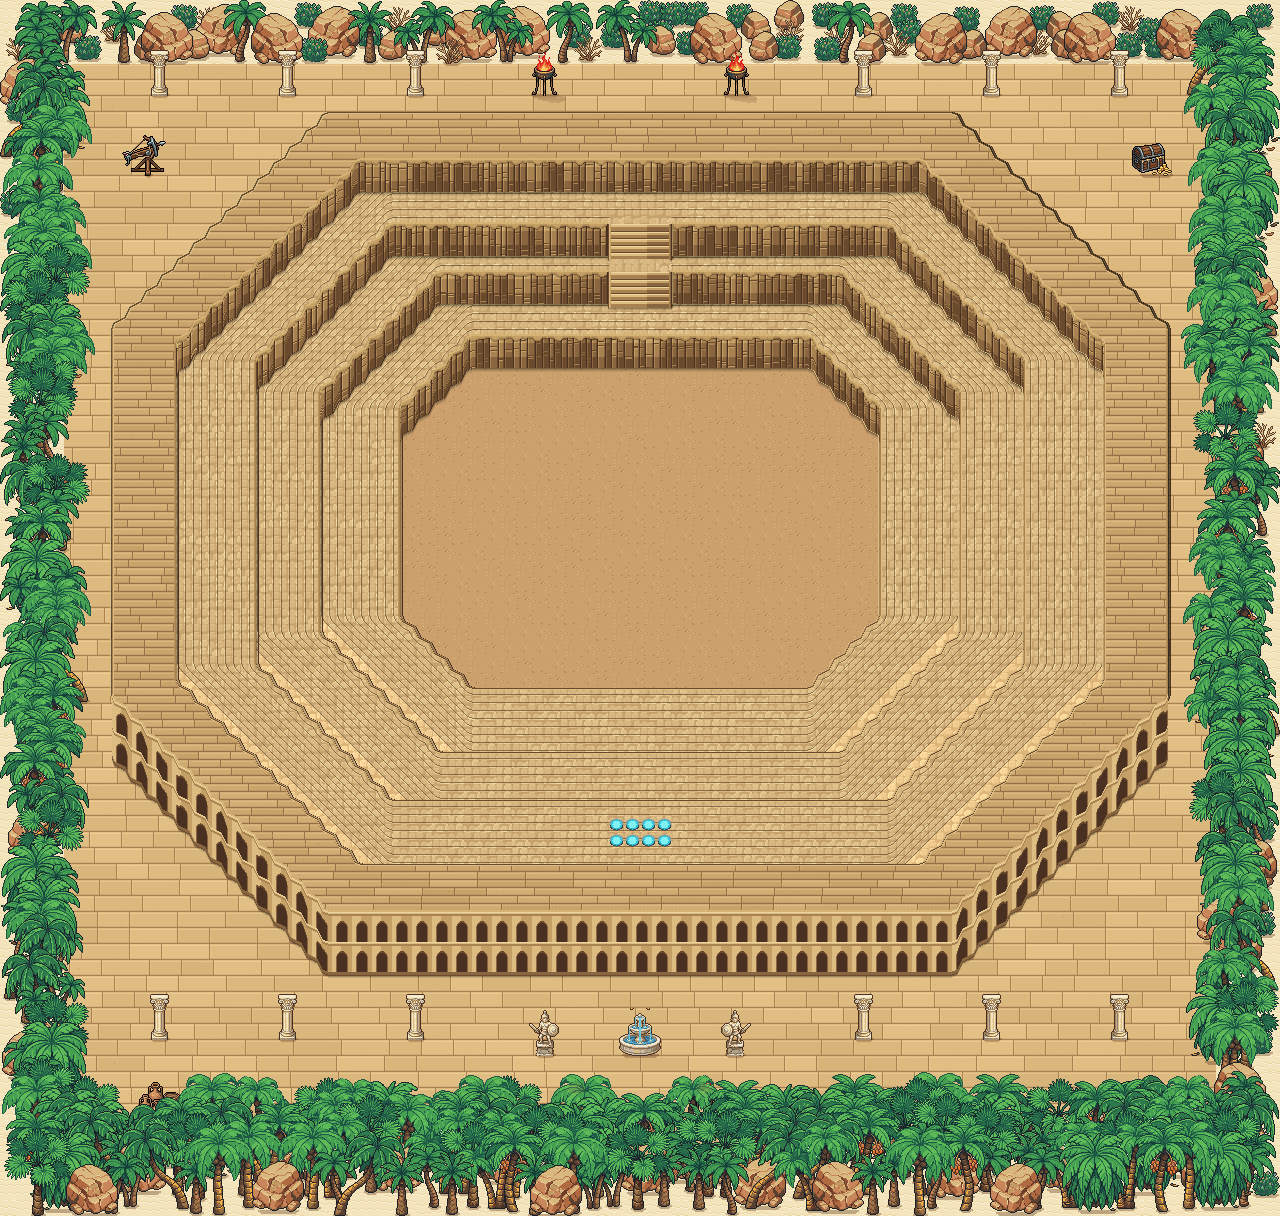
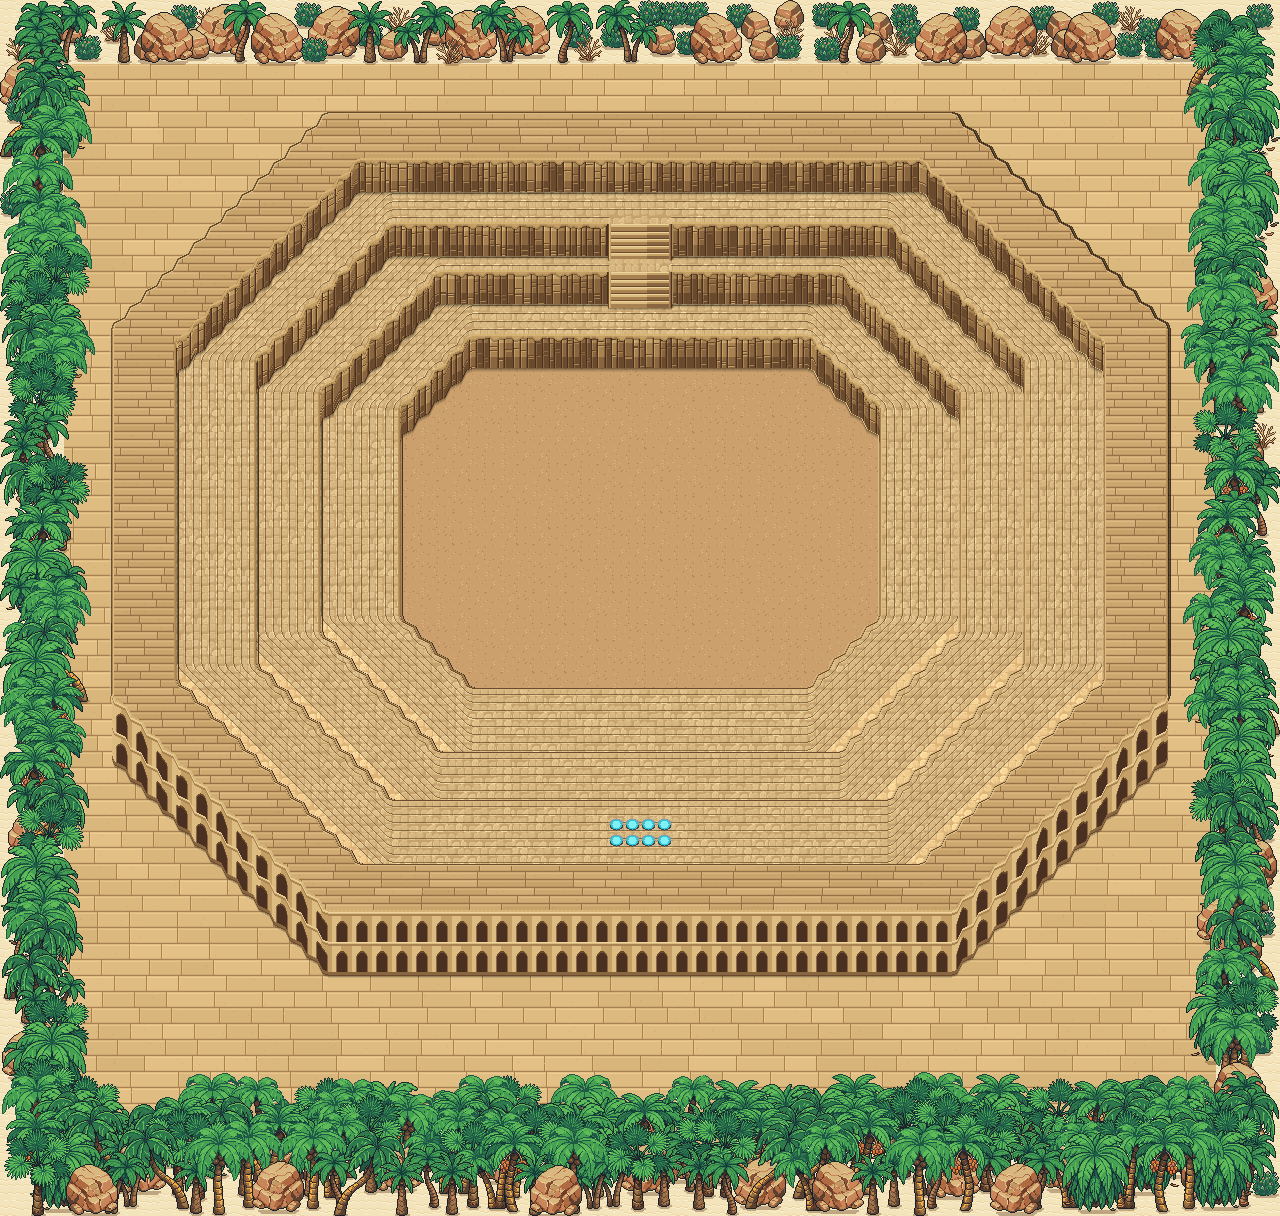
Karte 67: Objekte auf dem Platz entfernt (nur Palmenguertel)
Claude-Session: https://claude.ai/code/session_01SaoYHKhnro4LFcPJqjaPsq

diff --git a/tools/karte67_objekte.py b/tools/karte67_objekte.py
@@ -6,8 +6,7 @@
 Neu mit PixelLab (k67_rom): Travertinsaeule, Bronze-Feuerschale, Legionsstandarte, Gladiatorenstatue, Waffenstaender,
 Amphoren mit Fass, Kaiserthron, Speisetisch, Brunnen. Baeume des Guertels aus Karte 01 (Laubbaeume, Zypressen, Kiefern,
 Buesche zum Schliessen der Luecken).
-Aufbau (Nutzer): Arena und Tribuene innen ohne Objekte; aussen (Kulisse) Nordplatz mit Saeulen, Suedplatz mit Brunnen
-auf der Achse, Statuen- und Saeulenpaaren, wenige Marktdinge abseits.
+Aufbau (Nutzer): keine Objekte in Arena, Tribuene und auf dem Platz - nur der Palmenguertel am Rand.
 """
 import json, os, random, sys
 sys.path.insert(0, os.path.dirname(os.path.abspath(__file__)))
@@ -140,21 +139,7 @@ def main():
         return False
 
     # Nutzer: innen (Arena und Tribuene) keine Objekte - Kampfarena abgeschottet, Tribuene frei begehbar
-    # ---------------- Aussen (Kulisse): Nordplatz mit Saeulenreihe, Suedplatz mit Brunnen
-    for ab in (14, 22, 30):
-        paar('saeule', ab * T, 5 * T, klassen='z')
-    paar('schale', 6 * T, 5 * T, FL, klassen='z')
-    if not setze('brunnen', achse, 65 * T, {'anim': 'brunnen'}):
-        print('  Brunnen nicht gesetzt')
-    paar('statue', 6 * T, 65 * T, klassen='z')
-    paar('schale', 4 * T, 69 * T, FL, klassen='z')
-    for ab in (14, 22, 30):
-        paar('saeule', ab * T, 64 * T, klassen='z')
-    suche('amphoren', 10 * T, 69 * T)
-    suche('tisch', 69 * T, 69 * T)
-    suche('truhe', 72 * T, 10 * T)
-    suche('balliste', 9 * T, 10 * T)
-    suche('schild', 13 * T, 70 * T)
+    # Nutzer: auch aussen keine Objekte (Fackeln, Saeulen, Brunnen usw. entfernt) - nur der Palmenguertel
 
     # ---------------- Baumguertel (Wiese 'n' am Rand): dicht, nicht begehbar, Luecken mit Bueschen
     rnd = random.Random(67)
